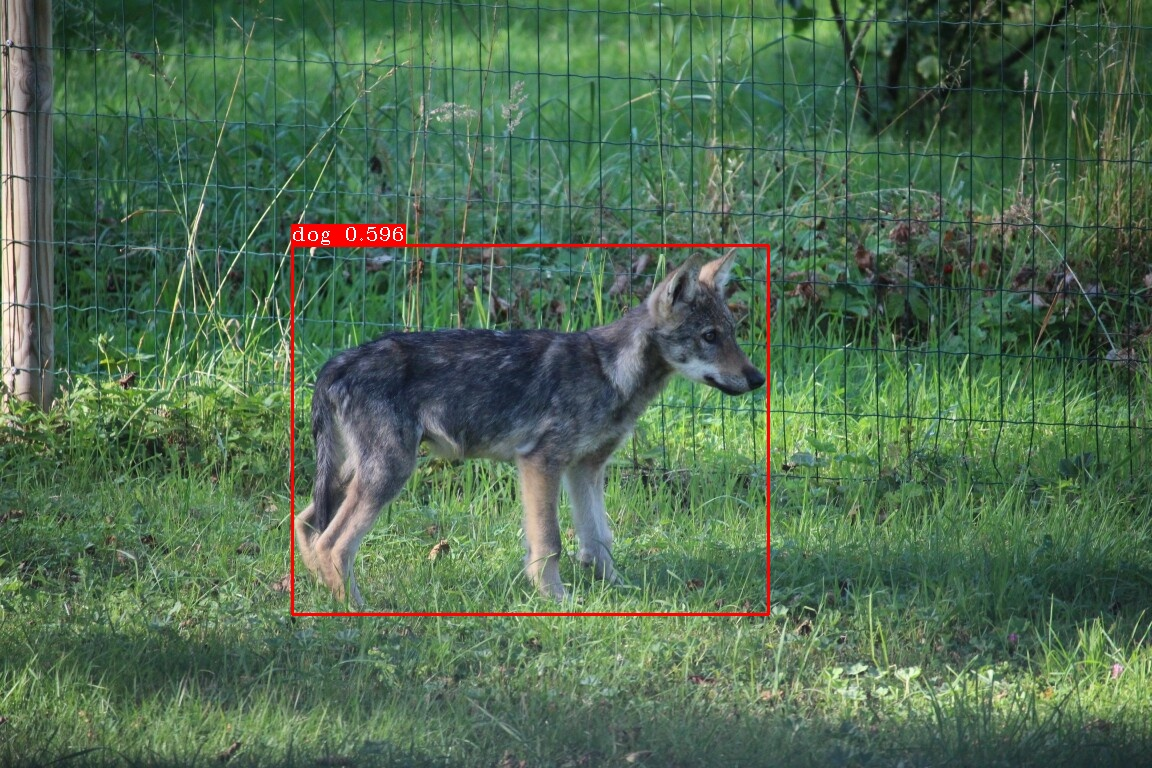
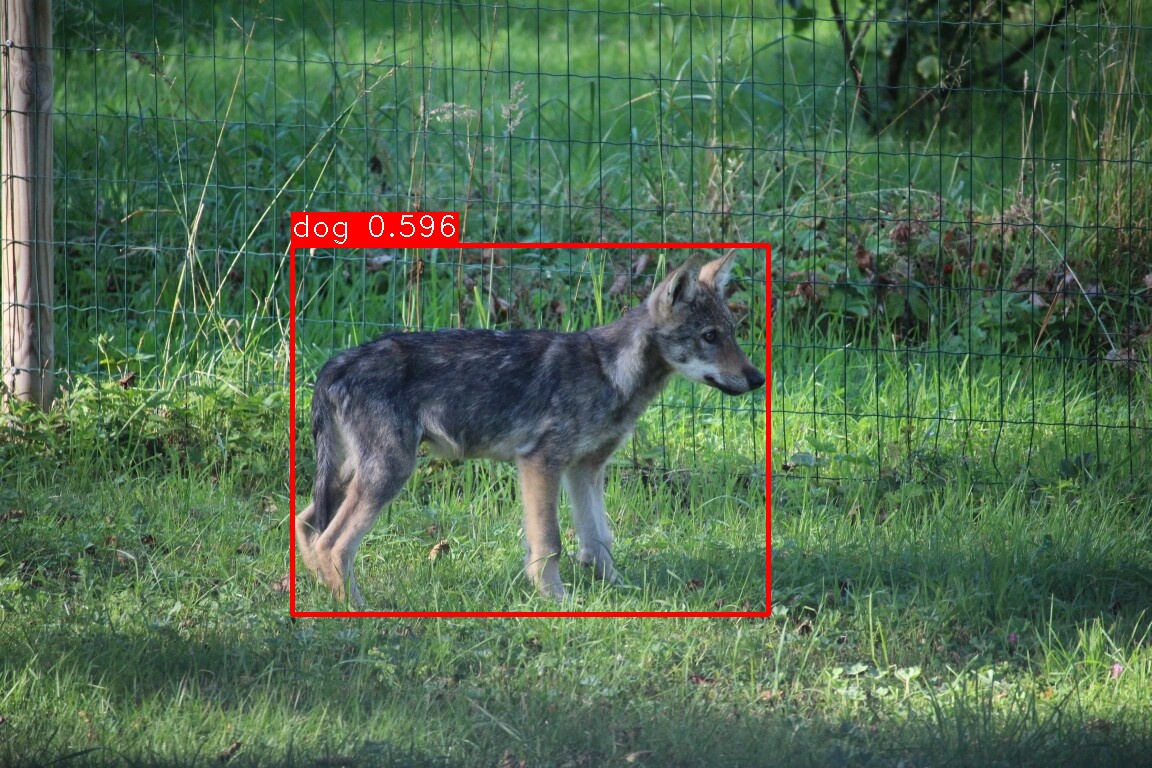
updated paint style

Changed region(s): [[0.25, 0.25, 0.6875, 0.8125]]

diff --git a/rocm_yolo_utils.py b/rocm_yolo_utils.py
@@ -91,9 +91,9 @@ def postprocess(preprocessed_data, detector_result, score_threshold = 0.25, nms_
 
 def paint_boxes(src_image, boxes, labels = None):
   image = src_image.copy()
-  font = cv2.FONT_HERSHEY_COMPLEX_SMALL
+  font = cv2.FONT_HERSHEY_DUPLEX
   font_color = (255, 255, 255)
-  border_thickness = 2
+  border_thickness = 3
 
   for box, class_id, confidence in boxes:
     color = (0, 0, 255)
